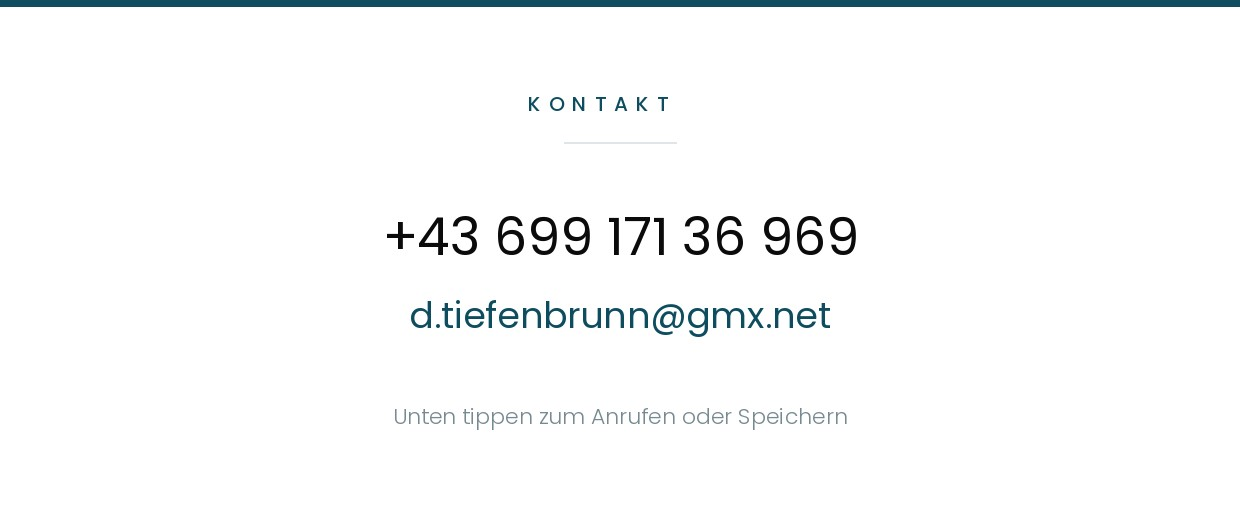
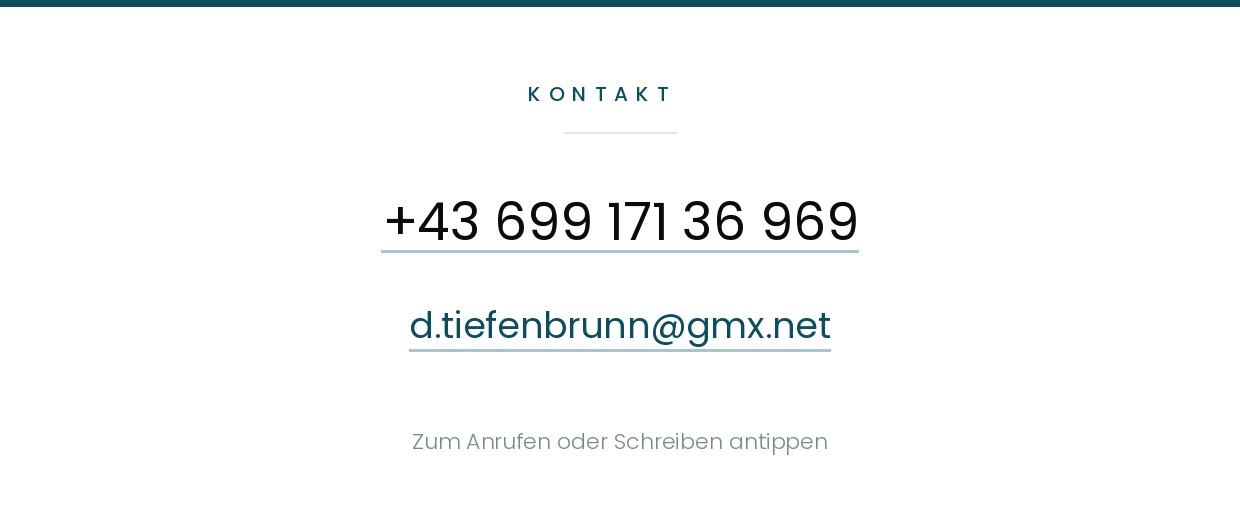
Add files via upload

diff --git a/d7t98srv/index.html b/d7t98srv/index.html
@@ -203,7 +203,9 @@ const CONFIG = {
   vr-mode-ui="enabled: false" device-orientation-permission-ui="enabled: false"
   embedded>
 
-  <a-camera position="0 0 0" look-controls="enabled: false"></a-camera>
+  <a-camera position="0 0 0" look-controls="enabled: false"
+            cursor="fuse: false; rayOrigin: mouse"
+            raycaster="objects: .ar-hit; far: 100"></a-camera>
 
   <!-- Zielraum: die Karte ist 1 Einheit breit, 0.5715 hoch (3281:1875).
        Sie reicht also von x -0.5…+0.5 und y -0.286…+0.286.
@@ -225,6 +227,15 @@ const CONFIG = {
     <a-entity id="ar-scene-2" visible="false">
       <a-image src="./panel-2.jpg" width="1" height="0.42"
                position="0 -0.496 0.002" material="shader: flat"></a-image>
+
+      <!-- Unsichtbare Trefferflächen, deckungsgleich mit den Textzeilen im Panel.
+           Sie leuchten beim Antippen kurz auf, damit der Treffer sichtbar wird. -->
+      <a-plane class="ar-hit" data-act="call"
+               width="0.46" height="0.075" position="0 -0.4634 0.004"
+               material="shader: flat; color: #0E4C60; transparent: true; opacity: 0"></a-plane>
+      <a-plane class="ar-hit" data-act="mail"
+               width="0.38" height="0.060" position="0 -0.5492 0.004"
+               material="shader: flat; color: #0E4C60; transparent: true; opacity: 0"></a-plane>
     </a-entity>
 
   </a-entity>
@@ -442,6 +453,14 @@ const CONFIG = {
     el.addEventListener('click', (e) => { e.preventDefault(); actions[act](); });
   }
   $$('[data-act]').forEach(bind);
+
+  // Trefferflächen im Bildtrack: erst Rückmeldung, dann Aktion
+  $$('.ar-hit').forEach(el => {
+    el.addEventListener('click', () => {
+      el.setAttribute('material', 'opacity', 0.22);
+      setTimeout(() => el.setAttribute('material', 'opacity', 0), 260);
+    });
+  });
 
   // ---------- Trackingstatus ----------
   const dock = $('#dock'), status = $('#status');
